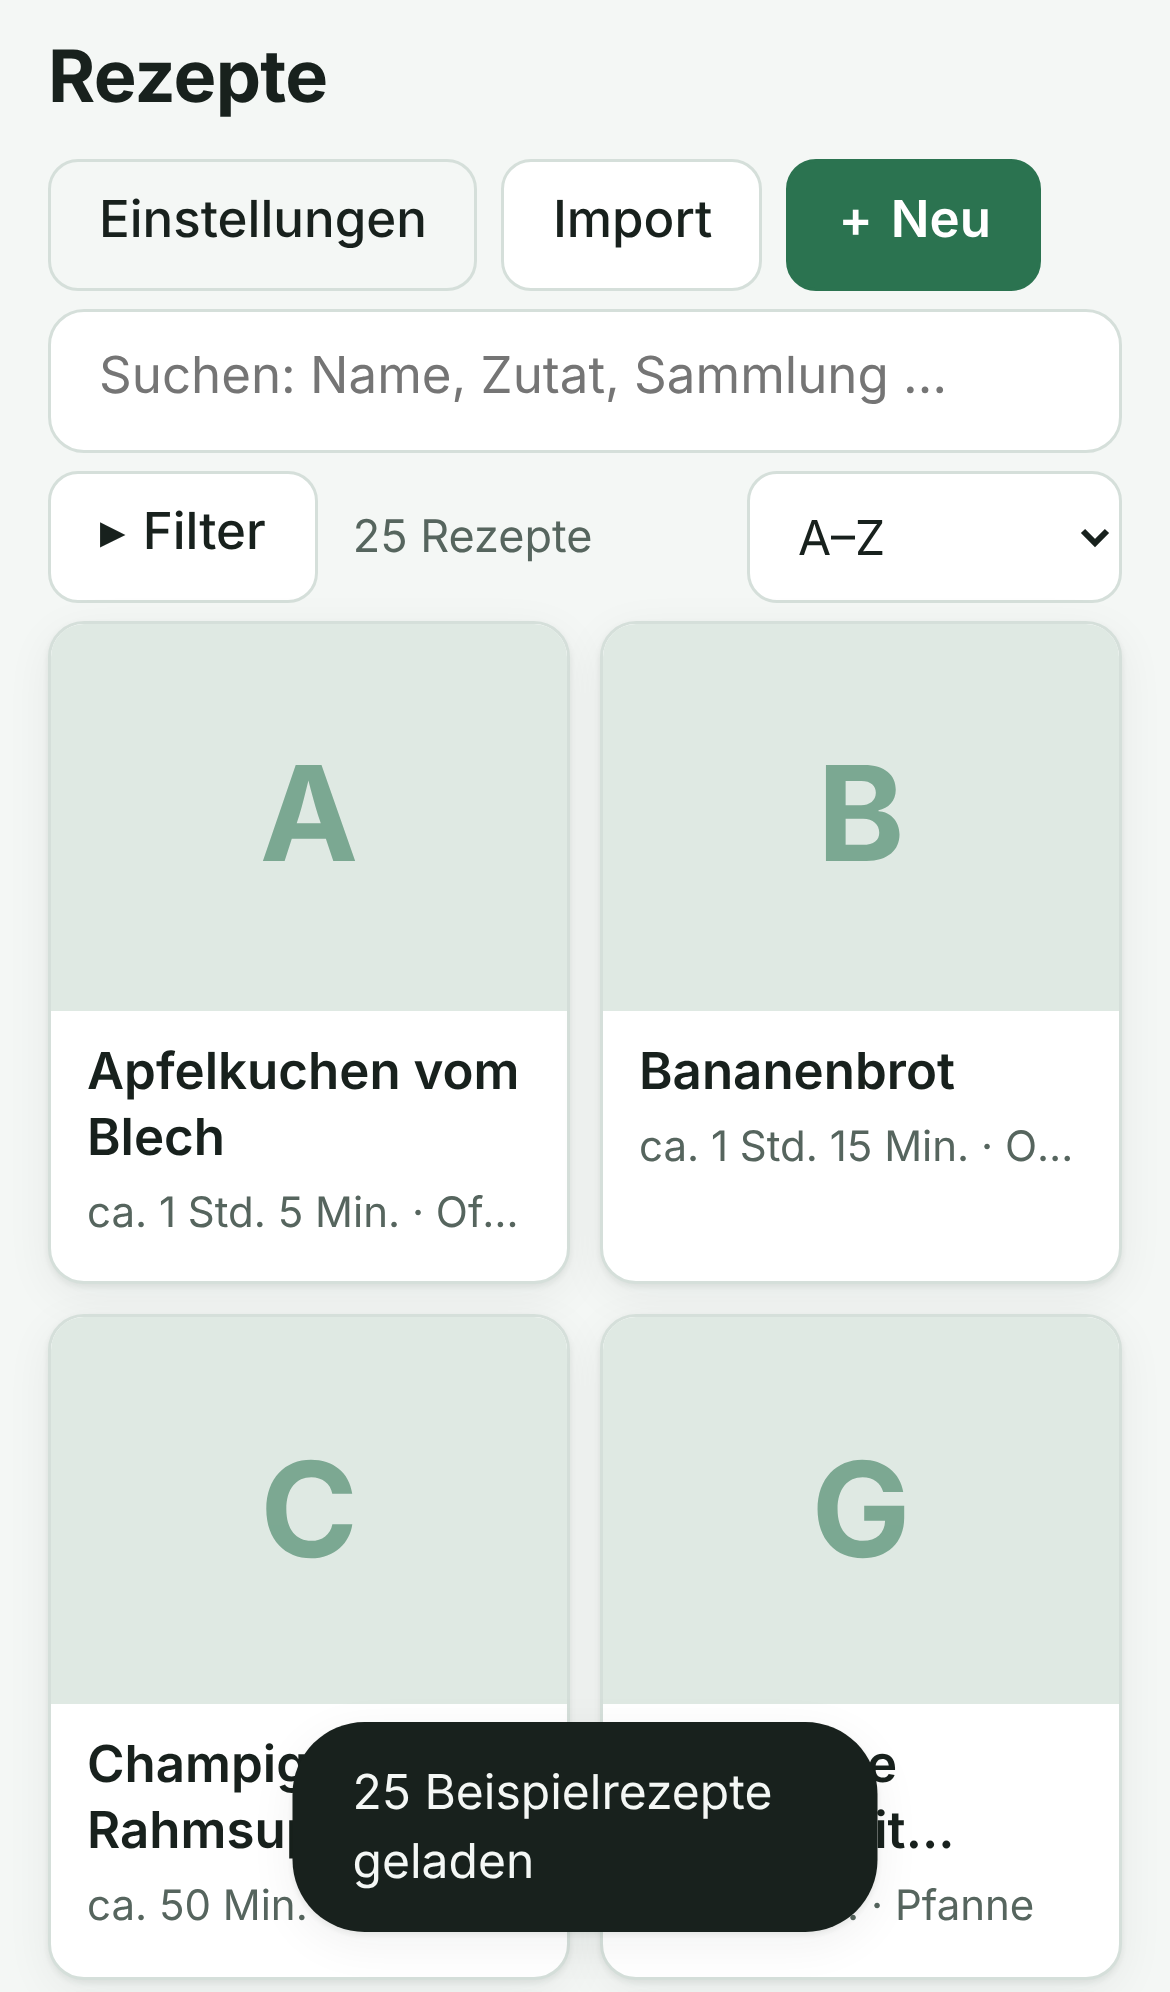
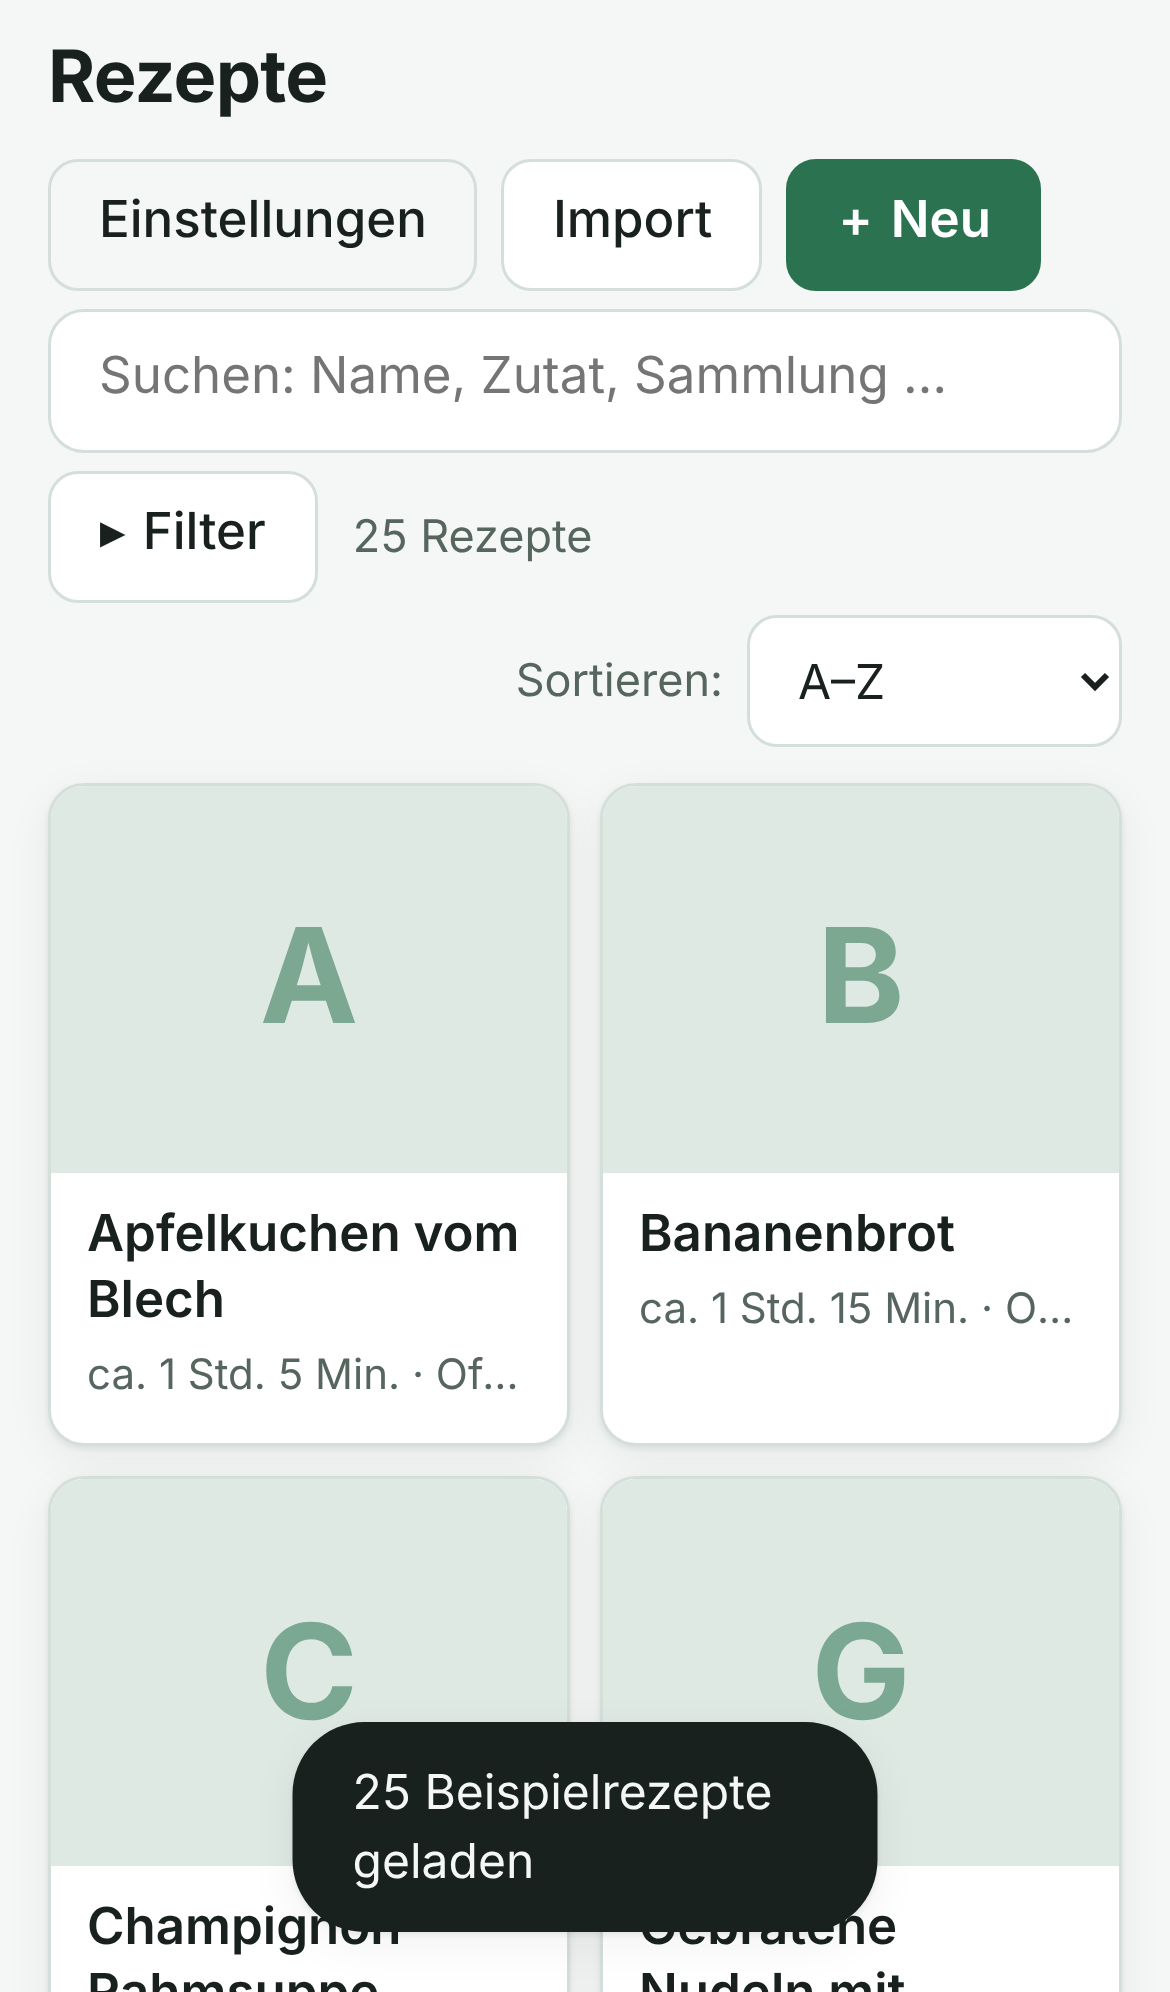
Zutaten an Bring! schicken (aktuelle Mengen, abhaken was da ist)
Claude-Session: https://claude.ai/code/session_012ep5u1wpGkj4TJbm2QHrev

diff --git a/js/app.js b/js/app.js
@@ -694,7 +694,54 @@
 
     section.append(h('div', { class: 'ing-head' }, h('h3', { text: 'Zutaten' }), controls), list);
     if (!base) section.append(h('p', { class: 'hint', text: 'Zum Umrechnen: Tippe auf „Bearbeiten“ und trage ein, für wie viele Personen das Rezept ist.' }));
+    if (r.ingredients.length && (window.APP_CONFIG || {}).supabaseUrl) section.append(bringBox(r, () => r.ingredients.map(l => Sc.scaleText(l, factor()))));
     return section;
+  }
+
+  // ---------- Zutaten an Bring! schicken ----------
+  // Bring! liest Rezepte von Webseiten (schema.org). Das Server-Programm erzeugt dafür eine Seite
+  // aus den Daten im Link (nichts wird gespeichert); Bring! öffnet sich dann mit den Zutaten zum Übernehmen.
+  const HAVE_AT_HOME = /^(etwas\s+)?(salz|pfeffer|wasser|salz und pfeffer|salz, pfeffer|pfeffer und salz|pfeffer, salz)\b/i;
+  function bringLink(title, lines) {
+    const cfg = window.APP_CONFIG || {};
+    const json = JSON.stringify({ t: title, i: lines });
+    const bytes = new TextEncoder().encode(json);
+    let bin = '';
+    bytes.forEach(b => { bin += String.fromCharCode(b); });
+    const data = btoa(bin).replace(/\+/g, '-').replace(/\//g, '_').replace(/=+$/, '');
+    const page = String(cfg.supabaseUrl || '').replace(/\/$/, '') + '/functions/v1/import?bring=' + data;
+    return 'https://api.getbring.com/rest/bringrecipes/deeplink?url=' + encodeURIComponent(page) + '&source=web&baseQuantity=1&requestedQuantity=1';
+  }
+  function bringBox(r, currentLines) {
+    const box = h('div', { class: 'bring' });
+    const open = h('button', { type: 'button', class: 'btn', id: 'btnBring' }, '🛒 Auf die Einkaufsliste (Bring!)');
+    function closed() { box.textContent = ''; box.append(open); }
+    open.addEventListener('click', () => {
+      const lines = currentLines();
+      box.textContent = '';
+      const checks = lines.map((l, i) => {
+        const cb = h('input', { type: 'checkbox', id: 'bring' + i, checked: !HAVE_AT_HOME.test(l) });
+        return { l, cb, row: h('label', { class: 'bring-row', for: 'bring' + i }, cb, h('span', { text: l })) };
+      });
+      const send = h('button', { type: 'button', class: 'btn btn-primary', id: 'bringSend' }, 'An Bring! schicken');
+      send.addEventListener('click', () => {
+        const chosen = checks.filter(c => c.cb.checked).map(c => c.l);
+        if (!chosen.length) { toast('Bitte mindestens eine Zutat auswählen'); return; }
+        const link = bringLink(r.title, chosen);
+        window.RecipeBringLast = link; // für Tests
+        window.open(link, '_blank', 'noopener');
+        toast('Bring! wird geöffnet …');
+        closed();
+      });
+      box.append(
+        h('p', { class: 'hint', text: 'Abhaken, was du schon zu Hause hast. Die Mengen sind die gerade eingestellten.' }),
+        h('div', { class: 'bring-list' }, checks.map(c => c.row)),
+        h('div', { class: 'pick-actions' },
+          h('button', { type: 'button', class: 'btn', onclick: () => checks.forEach(c => { c.cb.checked = !c.cb.checked; }) }, 'Alle umkehren'),
+          h('button', { type: 'button', class: 'btn', onclick: closed }, 'Abbrechen'), send));
+    });
+    closed();
+    return box;
   }
 
   // ---------- Import über Link ----------

diff --git a/tests/app.test.js b/tests/app.test.js
@@ -139,6 +139,26 @@ const OUT = process.argv[2] || '.';
   await p.click('[aria-label="Menge: mehr"]');
   assert((await ing())[0] === '216,67 g Zartbitterschokolade' || (await ing())[0].startsWith('215 g'), 'Brownies 13 Stück: ' + (await ing())[0]);
   await p.click('dialog .icon-btn[aria-label=Schließen]'); await p.waitForTimeout(200);
+  // Bring!: aktuelle Mengen, Salz/Pfeffer vorab abgewählt, Link auf die Rezeptseite für Bring!
+  await p.evaluate(() => { window.APP_CONFIG = Object.assign(window.APP_CONFIG || {}, { supabaseUrl: 'https://test.supabase.example' }); });
+  const bid = await p.evaluate(() => Store.saveRecipe({ title: 'Testsuppe', servings: 4, servingsUnit: 'Personen', ingredients: ['400 g Kartoffeln', '1 l Brühe', 'Salz und Pfeffer'], steps: ['Kochen.'] }).id);
+  await p.evaluate(id => { location.hash = 'rezept-' + id; }, bid); await p.waitForSelector('dialog h2:has-text("Testsuppe")');
+  await p.click('[aria-label="Menge: weniger"]'); await p.click('[aria-label="Menge: weniger"]');
+  await p.evaluate(() => { window.open = () => null; });
+  await p.click('#btnBring');
+  const rows = await p.$$eval('.bring-row', e => e.map(x => (x.querySelector('input').checked ? '✓ ' : '– ') + x.textContent.trim()));
+  assert(rows.join(' | ') === '✓ 200 g Kartoffeln | ✓ 500 ml Brühe | – Salz und Pfeffer', 'Bring!: Mengen für 2 Personen, Salz/Pfeffer vorab abgewählt: ' + rows.join(' | '));
+  await p.click('#bringSend');
+  const sent = await p.evaluate(() => {
+    const u = new URL(window.RecipeBringLast);
+    const page = new URL(u.searchParams.get('url'));
+    const b64 = page.searchParams.get('bring').replace(/-/g, '+').replace(/_/g, '/');
+    const bin = atob(b64 + '='.repeat((4 - b64.length % 4) % 4));
+    return { host: u.host, src: u.searchParams.get('source'), page: page.pathname, data: JSON.parse(new TextDecoder().decode(Uint8Array.from(bin, c => c.charCodeAt(0)))) };
+  });
+  assert(sent.host === 'api.getbring.com' && sent.src === 'web' && sent.page === '/functions/v1/import' && sent.data.t === 'Testsuppe' && sent.data.i.join('|') === '200 g Kartoffeln|500 ml Brühe', 'Bring!-Link mit Rezeptseite und gewählten Zutaten: ' + JSON.stringify(sent.data));
+  await p.click('dialog .icon-btn[aria-label=Schließen]'); await p.waitForTimeout(200);
+  await p.evaluate(id => Store.deleteRecipe(id), bid);
   // Blech ohne Kuchen (Granola): kein Umschalter, sondern Anzahl Bleche
   const gid = await p.evaluate(() => Store.saveRecipe({ title: 'Granola', servings: 1, servingsUnit: 'Blech', formSize: '30 × 40 cm', ingredients: ['200 g Haferflocken'], steps: ['Backen.'] }).id);
   await p.evaluate(id => { location.hash = 'rezept-' + id; }, gid); await p.waitForSelector('dialog h2:has-text("Granola")');

diff --git a/supabase/functions/import/index.ts b/supabase/functions/import/index.ts
@@ -375,8 +375,34 @@ export async function checkMany(urls, fetcher) {
   return results;
 }
 
+// ---------- Bring!: öffentliche Rezeptseite mit den gewünschten Zutaten ----------
+// Die App schickt Bring! einen Link auf diese Seite; Bring! liest die Rezeptangaben (schema.org) daraus.
+// Die Daten stehen im Link selbst (nichts wird gespeichert): ?bring=<base64url von {t, i, s}>
+export function bringPage(param) {
+  if (!param || param.length > 12000) return null;
+  let data;
+  try {
+    const b64 = param.replace(/-/g, '+').replace(/_/g, '/');
+    const bin = atob(b64 + '='.repeat((4 - b64.length % 4) % 4));
+    data = JSON.parse(new TextDecoder().decode(Uint8Array.from(bin, c => c.charCodeAt(0))));
+  } catch (_) { return null; }
+  const title = String(data && data.t || 'Rezept').slice(0, 120);
+  const ing = (Array.isArray(data && data.i) ? data.i : []).map(x => String(x).slice(0, 200)).filter(Boolean).slice(0, 80);
+  if (!ing.length) return null;
+  const esc = s => s.replace(/[&<>"']/g, c => ({ '&': '&amp;', '<': '&lt;', '>': '&gt;', '"': '&quot;', "'": '&#39;' }[c]));
+  const ld = JSON.stringify({ '@context': 'https://schema.org', '@type': 'Recipe', name: title, recipeYield: String(data.s || ''), recipeIngredient: ing }).replace(/</g, '\\u003c');
+  return '<!doctype html><html lang="de"><head><meta charset="utf-8"><meta name="robots" content="noindex,nofollow"><title>' + esc(title) + '</title>'
+    + '<script type="application/ld+json">' + ld + '</script></head><body><h1>' + esc(title) + '</h1><ul>'
+    + ing.map(x => '<li>' + esc(x) + '</li>').join('') + '</ul></body></html>';
+}
+
 export async function handle(req) {
   if (req.method === 'OPTIONS') return new Response('ok', { headers: CORS });
+  if (req.method === 'GET') {
+    const html = bringPage(new URL(req.url).searchParams.get('bring'));
+    if (!html) return new Response('Nicht gefunden', { status: 404, headers: { 'Content-Type': 'text/plain; charset=utf-8' } });
+    return new Response(html, { headers: { 'Content-Type': 'text/html; charset=utf-8', 'Cache-Control': 'public, max-age=3600', 'X-Robots-Tag': 'noindex' } });
+  }
   const json = (body, status) => new Response(JSON.stringify(body), { status: status || 200, headers: { ...CORS, 'Content-Type': 'application/json; charset=utf-8' } });
   if (req.method !== 'POST') return json({ error: 'Nur POST.' }, 405);
   const projectUrl = typeof Deno !== 'undefined' ? Deno.env.get('SUPABASE_URL') : '';

diff --git a/tests/import.test.js b/tests/import.test.js
@@ -293,6 +293,12 @@ const ok = (c, m) => { if (!c) { fail++; console.log('FEHLER', m); } else consol
   const cleaned2 = window.RecipeOCR.cleanOcr('< Fitmitkev - Abnehmen ohne Verzichts Beitr...\n‚1 Stück Ei\n. 10 g Backkakao\n.% TL Backpulver\n- etwas Vanille\nlassen.\nGlasform füllen und bei 180 Ober-/Unterhitze backen.\nkochen_mit_k');
   ok(cleaned2 === '1 Stück Ei\n10 g Backkakao\n½ TL Backpulver\netwas Vanille\nlassen.\nGlasform füllen und bei 180 °C Ober-/Unterhitze backen.', 'Texterkennung aufgeräumt: Kopfzeile, Aufzählungszeichen, ½, °C, kurze Wörter: ' + JSON.stringify(cleaned2));
 
+  // Bring!-Seite: Rezeptangaben (schema.org) aus den Daten im Link, alles maskiert
+  const bringData = Buffer.from(JSON.stringify({ t: 'Suppe <script>', i: ['200 g Mehl', '2 "Eier"'] })).toString('base64url');
+  const bp = fn.bringPage(bringData);
+  ok(bp && bp.includes('"recipeIngredient":["200 g Mehl","2 \\"Eier\\""]') && !bp.includes('<script>') && bp.includes('Suppe &lt;script&gt;'), 'Bring!-Seite: Zutaten als Rezeptangaben, nichts Ausführbares');
+  ok(fn.bringPage('kaputt!!') === null && fn.bringPage(Buffer.from('{"t":"x","i":[]}').toString('base64url')) === null, 'Bring!-Seite: ungültige Daten -> nicht gefunden');
+
   // ---------- Pinterest ----------
   const pinAnswers = {
     'https://pin.it/abc': { status: 200, url: 'https://www.pinterest.de/pin/987654321/sent/?x=1', text: '<html></html>' },

diff --git a/css/app.css b/css/app.css
@@ -427,3 +427,10 @@ dialog::backdrop { background: rgba(10, 20, 15, .45); }
 }
 .to-top[hidden] { display: none; }
 body:has(#inboxBanner:not(dialog #inboxBanner)) .to-top { bottom: calc(96px + env(safe-area-inset-bottom, 0px)); }
+
+/* Bring! */
+.bring { margin-top: 14px; display: grid; gap: 10px; }
+.bring > .btn { justify-self: start; }
+.bring-list { display: grid; gap: 2px; }
+.bring-row { display: flex; align-items: center; gap: 12px; min-height: var(--touch); font-size: 17px; }
+.bring-row input { width: 24px; height: 24px; flex: none; accent-color: var(--accent); }

diff --git a/index.html b/index.html
@@ -5,7 +5,7 @@
 <meta name="viewport" content="width=device-width, initial-scale=1, viewport-fit=cover">
 <title>Meine Rezepte</title>
 <meta name="theme-color" content="#2f7a55">
-<meta name="app-version" content="2026-11-19T16:33:26">
+<meta name="app-version" content="2026-11-20T09:04:58">
 <meta name="apple-mobile-web-app-capable" content="yes">
 <meta name="mobile-web-app-capable" content="yes">
 <meta name="apple-mobile-web-app-title" content="Rezepte">

diff --git a/README.md b/README.md
@@ -63,7 +63,7 @@ Kein Auslesen direkt aus Videos (bewusst weggelassen).
 3. Import von Webseiten
 4. Import aus TikTok, Instagram und Pinterest über das Teilen-Menü (per Apple-Kurzbefehl)
 5. Rezepte aus Videos auslesen
-6. Zutaten an die Einkaufslisten-App **Bring!** schicken (mit den Mengen, die gerade am Personen-Regler eingestellt sind)
+6. ✅ Zutaten an **Bring!** schicken: Knopf im Rezept, aktuelle Mengen, abhaken was da ist; Server-Programm erzeugt dafür eine Rezeptseite aus den Daten im Link (GET ?bring=…), Bring! liest sie über seinen Deeplink
 
 ## Aufbau (für Entwickler)
 
